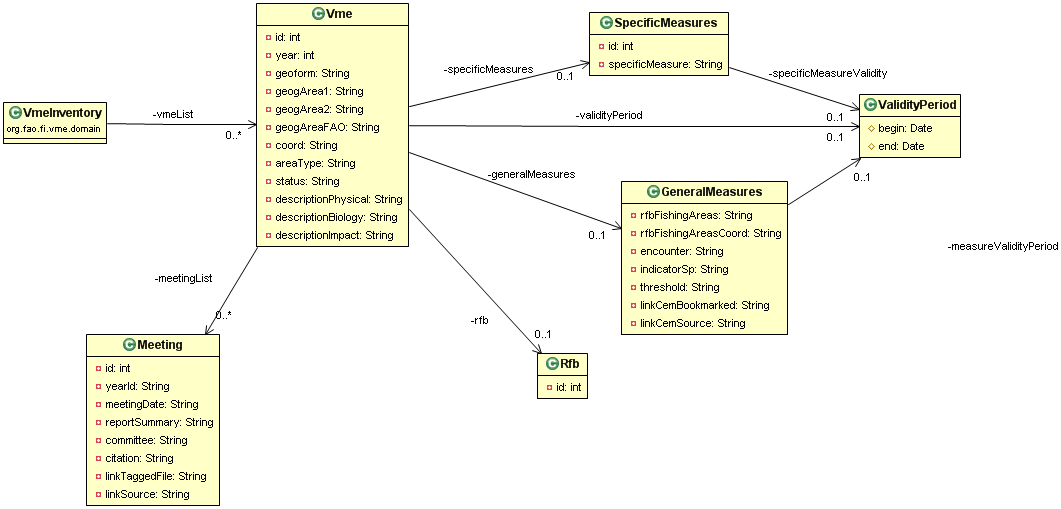
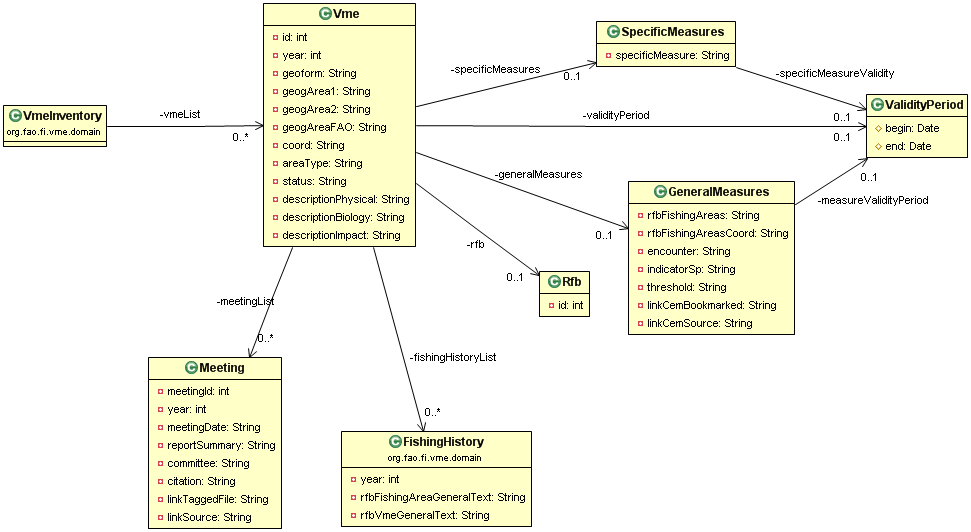
cleaning ids and so on

diff --git a/vme-domain/src/main/java/org/fao/fi/vme/domain/Meeting.java b/vme-domain/src/main/java/org/fao/fi/vme/domain/Meeting.java
@@ -2,77 +2,13 @@ package org.fao.fi.vme.domain;
 
 public class Meeting {
 
-	private int id;
-	private String yearId;
+	private int meetingId;
+	private int year;
 	private String meetingDate;
 	private String reportSummary;
 	private String committee;
 	private String citation;
 	private String linkTaggedFile;
 	private String linkSource;
-
-	public int getId() {
-		return id;
-	}
-
-	public void setId(int id) {
-		this.id = id;
-	}
-
-	public String getYearId() {
-		return yearId;
-	}
-
-	public void setYearId(String yearId) {
-		this.yearId = yearId;
-	}
-
-	public String getMeetingDate() {
-		return meetingDate;
-	}
-
-	public void setMeetingDate(String meetingDate) {
-		this.meetingDate = meetingDate;
-	}
-
-	public String getReportSummary() {
-		return reportSummary;
-	}
-
-	public void setReportSummary(String reportSummary) {
-		this.reportSummary = reportSummary;
-	}
-
-	public String getCommittee() {
-		return committee;
-	}
-
-	public void setCommittee(String committee) {
-		this.committee = committee;
-	}
-
-	public String getCitation() {
-		return citation;
-	}
-
-	public void setCitation(String citation) {
-		this.citation = citation;
-	}
-
-	public String getLinkTaggedFile() {
-		return linkTaggedFile;
-	}
-
-	public void setLinkTaggedFile(String linkTaggedFile) {
-		this.linkTaggedFile = linkTaggedFile;
-	}
-
-	public String getLinkSource() {
-		return linkSource;
-	}
-
-	public void setLinkSource(String linkSource) {
-		this.linkSource = linkSource;
-	}
 
 }

diff --git a/vme-domain/src/main/java/org/fao/fi/vme/domain/SpecificMeasures.java b/vme-domain/src/main/java/org/fao/fi/vme/domain/SpecificMeasures.java
@@ -2,17 +2,8 @@ package org.fao.fi.vme.domain;
 
 public class SpecificMeasures {
 
-	private int id;
 	private ValidityPeriod specificMeasureValidity;
 	private String specificMeasure;
-
-	public int getId() {
-		return id;
-	}
-
-	public void setId(int id) {
-		this.id = id;
-	}
 
 	public ValidityPeriod getSpecificMeasureValidity() {
 		return specificMeasureValidity;
